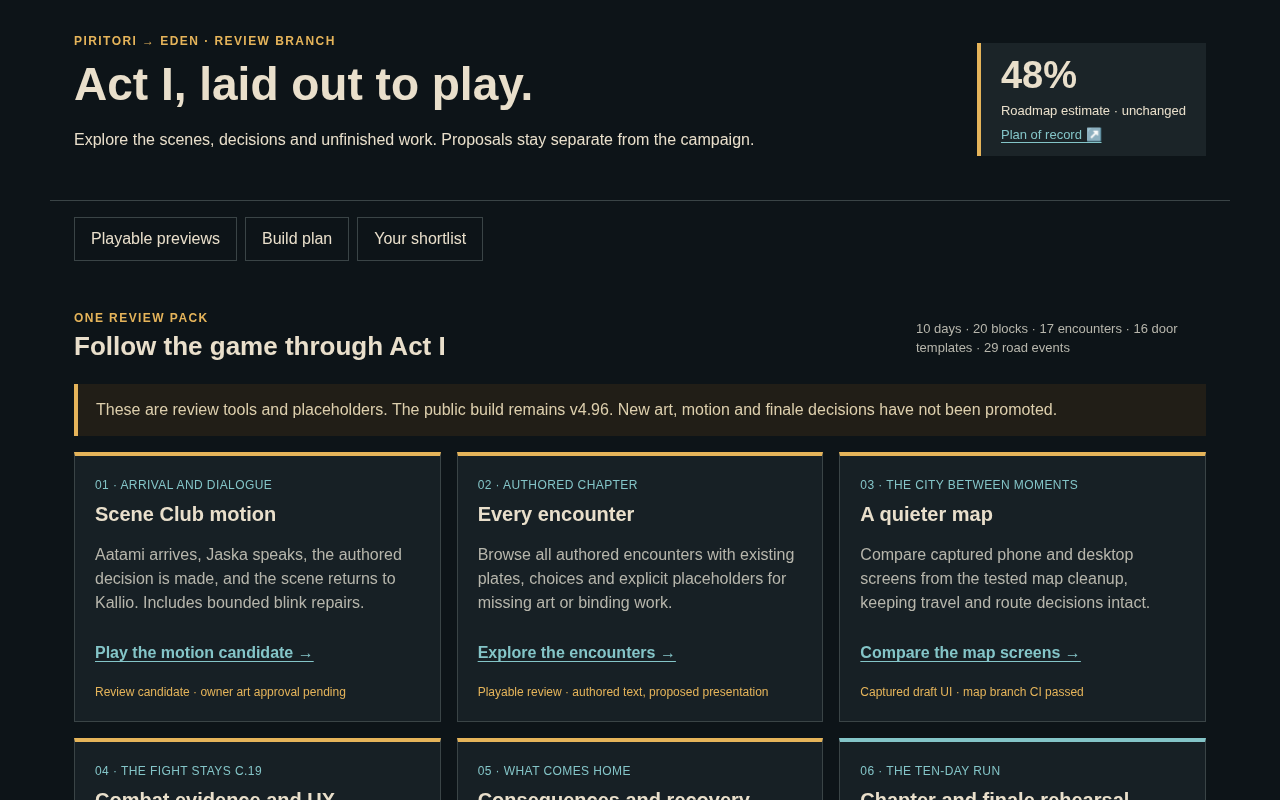
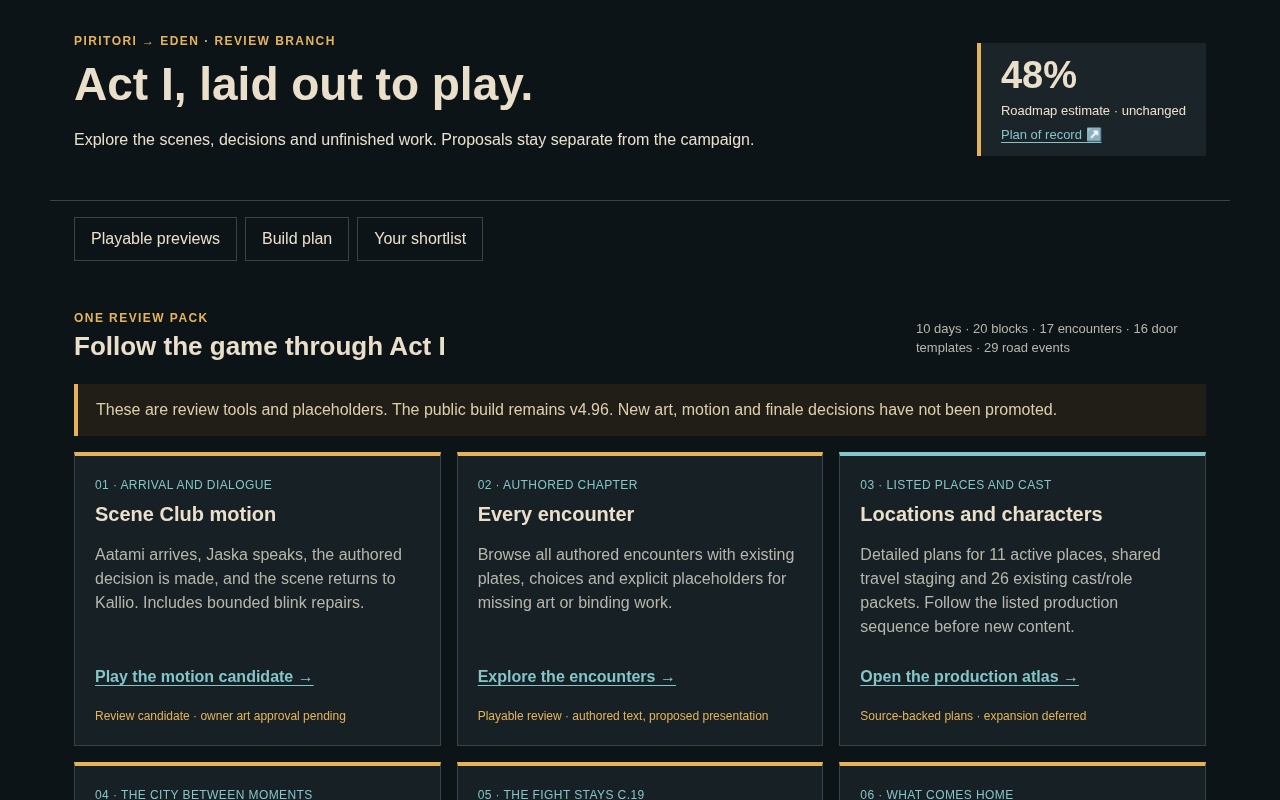
Connect production packets to the workbench and existing CI gates

Changed region(s): [[0.0625, 0.6875, 0.9375, 1.0], [0.6562, 0.5625, 0.9375, 0.6562]]

diff --git a/art-src/reviews/act1-workbench/README.md b/art-src/reviews/act1-workbench/README.md
@@ -20,7 +20,7 @@ No new art or dependency is introduced by this hub. Source art/animation approva
 
 ## Consolidated verification
 
-The assembled pack passes both 390×844 and 1280×800 checks: six actual sibling routes load and render, with no HTTP/console/page errors or horizontal overflow; review shortlist/notes/export/reset work across navigation; a byte-for-byte campaign sentinel remains unchanged. Individual tools add their detailed model/browser tests:
+The assembled pack passes both 390×844 and 1280×800 checks: seven actual sibling routes load and render, with no HTTP/console/page errors or horizontal overflow; review shortlist/notes/export/reset work across navigation; a byte-for-byte campaign sentinel remains unchanged. Individual tools add their detailed model/browser tests:
 
 - Encounter audit: 17 authored encounters, 60 exact choices/forecasts, 16 hash-verified plate references; both full viewport runs pass.
 - Consequences: 9 model fixtures, 18 browser flows; actual adapter receipts reject replay and JSON restore duplicates.
@@ -28,6 +28,11 @@ The assembled pack passes both 390×844 and 1280×800 checks: six actual sibling
 - Combat: four preserved 147-row evidence sets; phone/desktop data filters/proposal checks and actual C.19 courtyard captures pass. Missing telemetry stays unmeasured.
 - Hub: 36 source-backed work packets, fixed 48% estimate, existing roadmap milestones, filters and isolated review storage.
 
-The actual browser tour is [MP4](evidence/act1-workbench-tour.mp4) / [WebM](evidence/act1-workbench-tour.webm), 33.12 seconds. It shows the review tools, not a fabricated chapter run. Source art, new motion and proposed rules remain unpromoted; no public release is claimed. New combined-branch CI is pending.
+The earlier six-surface browser tour is [MP4](evidence/act1-workbench-tour.mp4) / [WebM](evidence/act1-workbench-tour.webm), 33.12 seconds. It shows the review tools, not a fabricated chapter run. Source art, new motion and proposed rules remain unpromoted; no public release is claimed. New combined-branch CI is pending.
 
 For a local review, serve the repository root (for example `python -m http.server 8785 --bind 127.0.0.1`) and open `/art-src/reviews/act1-workbench/`. The component drafts are #123 (combat), #124 (chapter), #125 (encounters) and #126 (consequences); the hub consolidates their tested commits and the already-tested map draft #121, on art-review #122.
+
+
+The listed location/cast extension is at `../act1-production/`: 12 location/context packets, 26 existing cast/role packets, and a 15-stage production order. Its own source/browser checks cover all records and staging views with campaign-storage access blocked. It is reachable as the seventh hub preview; new content is explicitly deferred.
+
+The listed-place/cast recording is [MP4](../act1-production/evidence/listed-production-tour.mp4) / [WebM](../act1-production/evidence/listed-production-tour.webm), 18.16 seconds of actual planning-tool output. The location/cast extension does not begin new-content expansion.

diff --git a/art-src/reviews/act1-workbench/PLAN.md b/art-src/reviews/act1-workbench/PLAN.md
@@ -4,7 +4,7 @@ Owner direction, 7 November 2026: build many good plans and placeholders for lat
 
 ## What is concrete now
 
-The workbench links six review surfaces: the animated Scene Club candidate, all authored encounters, a captured map comparison, C.19 evidence and UX proposals, consequence fixtures, and the chapter/finale rehearsal. They exist to expose gaps and compare decisions before committing production code or art. The detailed work packets are in `packets.json` and can be filtered and shortlisted in the browser. A shortlist is a local review preference, never an art approval or a completed development milestone.
+The workbench links seven review surfaces: the listed location/cast production atlas, the animated Scene Club candidate, all authored encounters, a captured map comparison, C.19 evidence and UX proposals, consequence fixtures, and the chapter/finale rehearsal. They exist to expose gaps and compare decisions before committing production code or art. The detailed work packets are in `packets.json` and can be filtered and shortlisted in the browser. A shortlist is a local review preference, never an art approval or a completed development milestone.
 
 Every packet names a single bounded change, its existing roadmap milestone, exact source files, an observable acceptance condition, and what it must not silently change. Proposed mechanics and fixture values must stay labelled in their individual previews.
 
@@ -29,3 +29,8 @@ Every packet names a single bounded change, its existing roadmap milestone, exac
 ## Later integration checks
 
 Keep each implementation small and test the existing campaign behavior, not only the review UI: first purchase/sale, recruitment, scene choice/reload, road event, door and mission fights, C.19 victory/police/withdrawal, once-only receipts, missing/arrested recovery, fence money and chapter carryover. Browser emulation is not physical acceptance. Public release documentation advances only after an actual tested release.
+
+
+## Listed locations and characters first
+
+The production atlas adds 12 location/context packets, 26 existing cast/role packets and a finite 15-stage dependency sequence. It expands the detail of the already listed work; it adds no new story, person or location. New-content expansion remains deferred until those existing-scope gates and a later owner direction. Source selection never assigns a random modular face to a named person, and intentionally offscreen roles remain offscreen. See `../act1-production/ORDER.md`, `LOCATIONS.md` and `CHARACTERS.md`.
